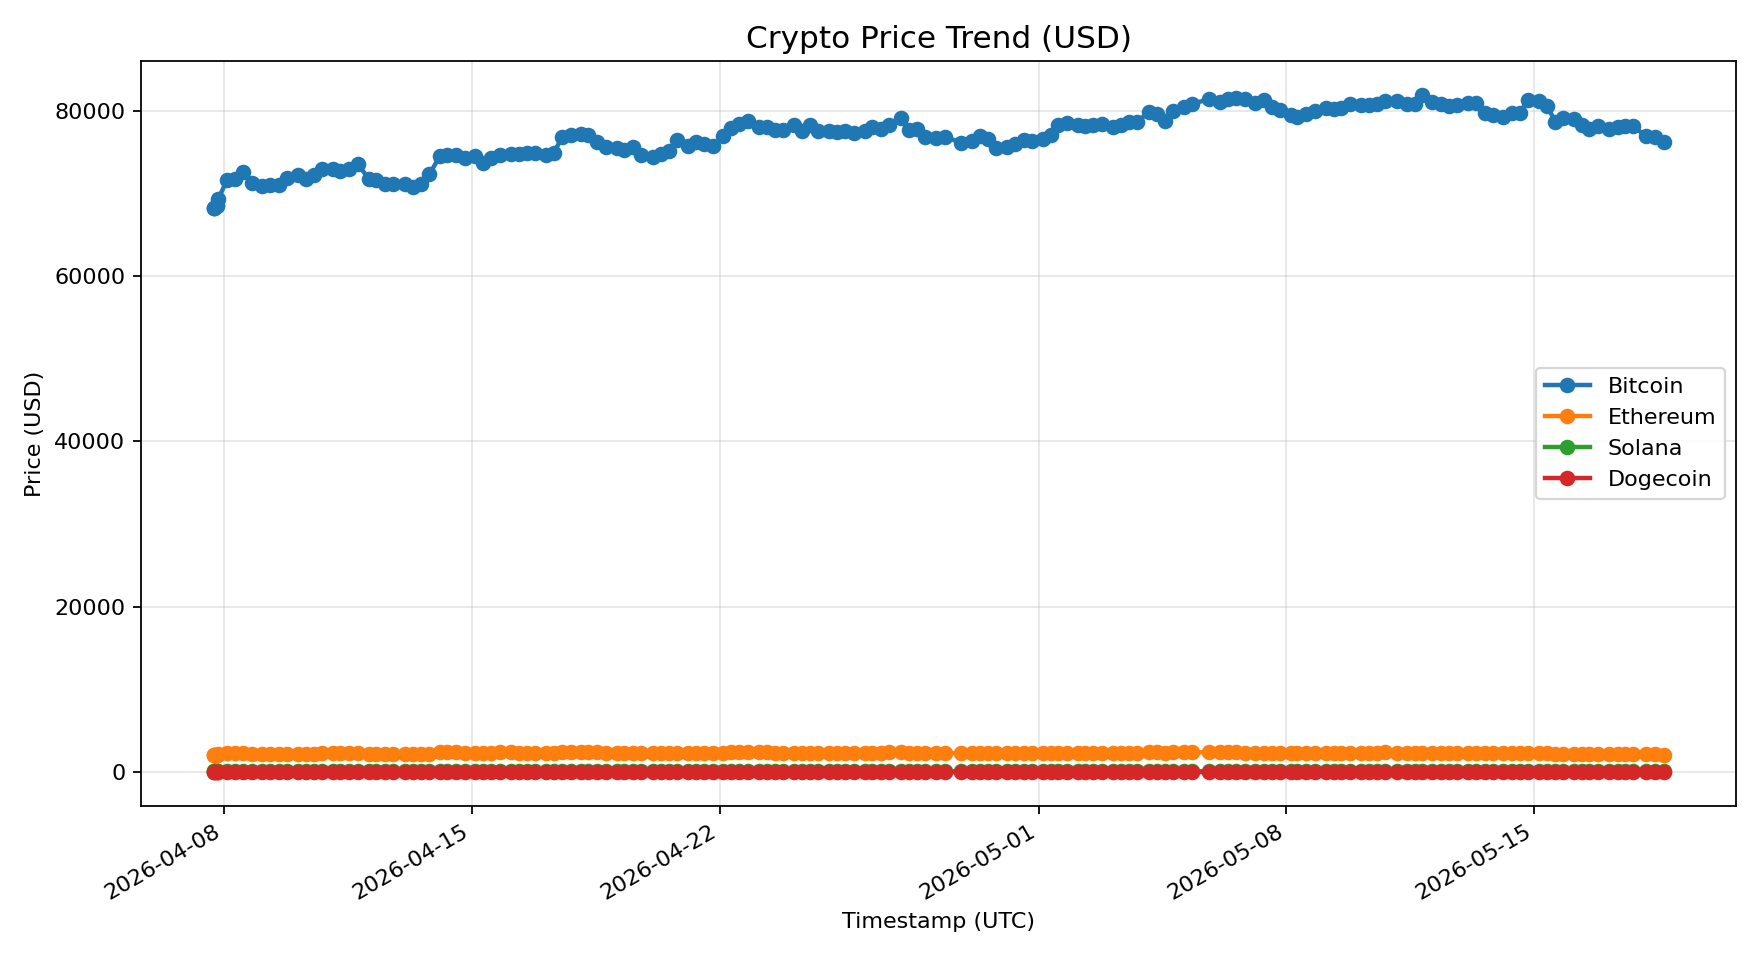
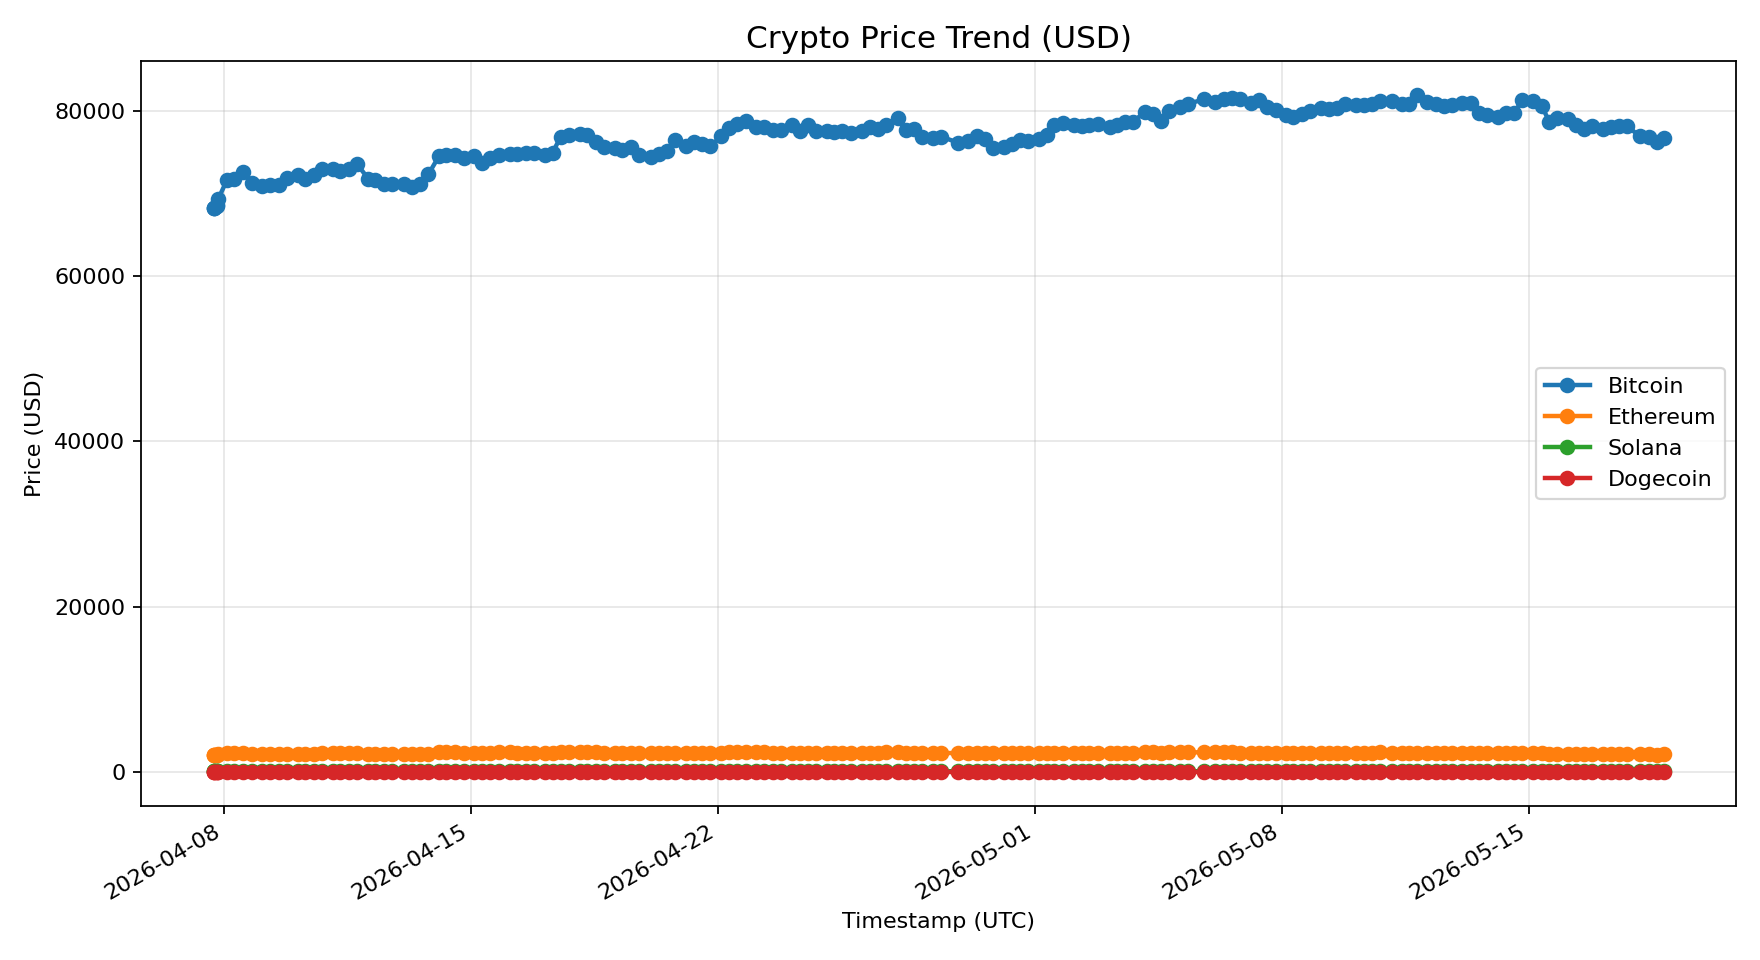
chore: update crypto snapshots and dashboard

diff --git a/README.md b/README.md
@@ -4,7 +4,7 @@ Production-ready crypto tracker built with Python, Streamlit, and GitHub Actions
 
 ## Live Dashboard
 
-- Last updated (UTC): **2026-05-18T15:28:16+00:00**
+- Last updated (UTC): **2026-05-18T19:42:40+00:00**
 - Alert threshold: **+/-5.00%** run-to-run movement
 - Tracked coins: Bitcoin, Ethereum, Solana, Dogecoin
 
@@ -12,10 +12,10 @@ Production-ready crypto tracker built with Python, Streamlit, and GitHub Actions
 
 | Coin | Latest Price (USD) | 24h Change (CoinGecko) | Change Since Last Run |
 | --- | ---: | ---: | ---: |
-| Bitcoin | $76,192.0000 | -2.30% | -0.90% |
-| Ethereum | $2,099.8900 | -3.80% | -0.75% |
-| Solana | $83.8500 | -2.80% | -0.77% |
-| Dogecoin | $0.1037 | -6.06% | -0.40% |
+| Bitcoin | $76,695.0000 | -2.10% | +0.66% |
+| Ethereum | $2,109.2000 | -3.76% | +0.44% |
+| Solana | $84.6300 | -2.30% | +0.93% |
+| Dogecoin | $0.1041 | -5.84% | +0.45% |
 
 ### Price Trend Chart
 
